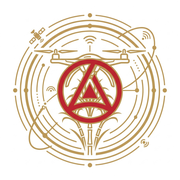
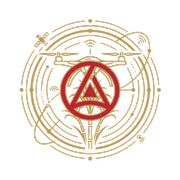
fix(branding): remover borda quadrada do emblema e gerar icones limpos com transparencia

diff --git a/service-worker.js b/service-worker.js
@@ -1,4 +1,4 @@
-const CACHE_NAME = 'clealco-voos-v23';
+const CACHE_NAME = 'clealco-voos-v24';
 const ASSETS_ESTATICOS = [
     './',
     './index.html',
@@ -10,6 +10,7 @@ const ASSETS_ESTATICOS = [
     './logo_clealco.png',
     './logo_clealco_oficial.png',
     './logo_login_clealco.jpg',
+    './emblema_clealco_oficial.png',
     './icon-192.png',
     './icon-512.png',
     './apple-touch-icon.png',
